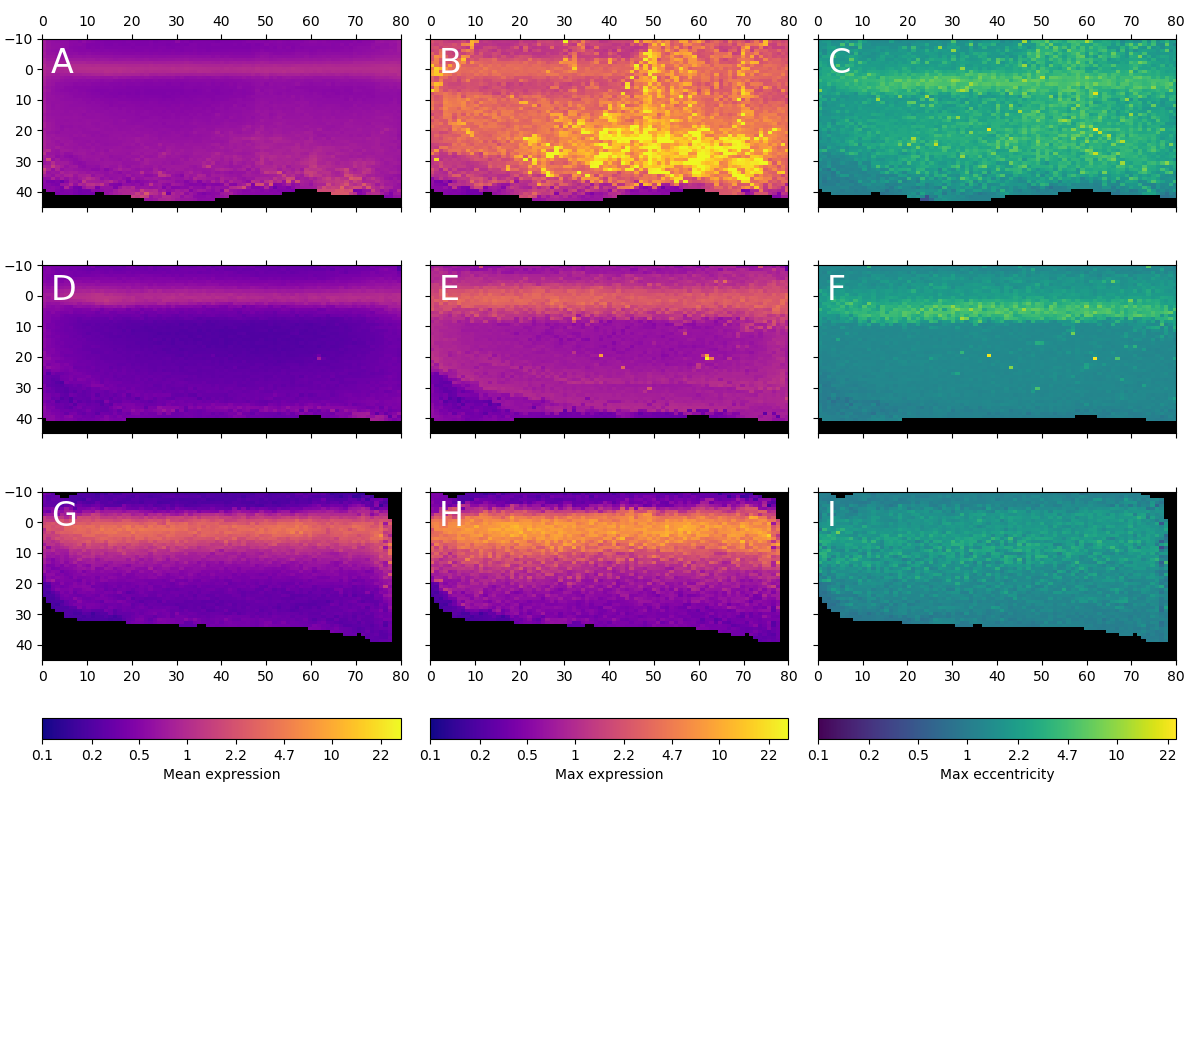
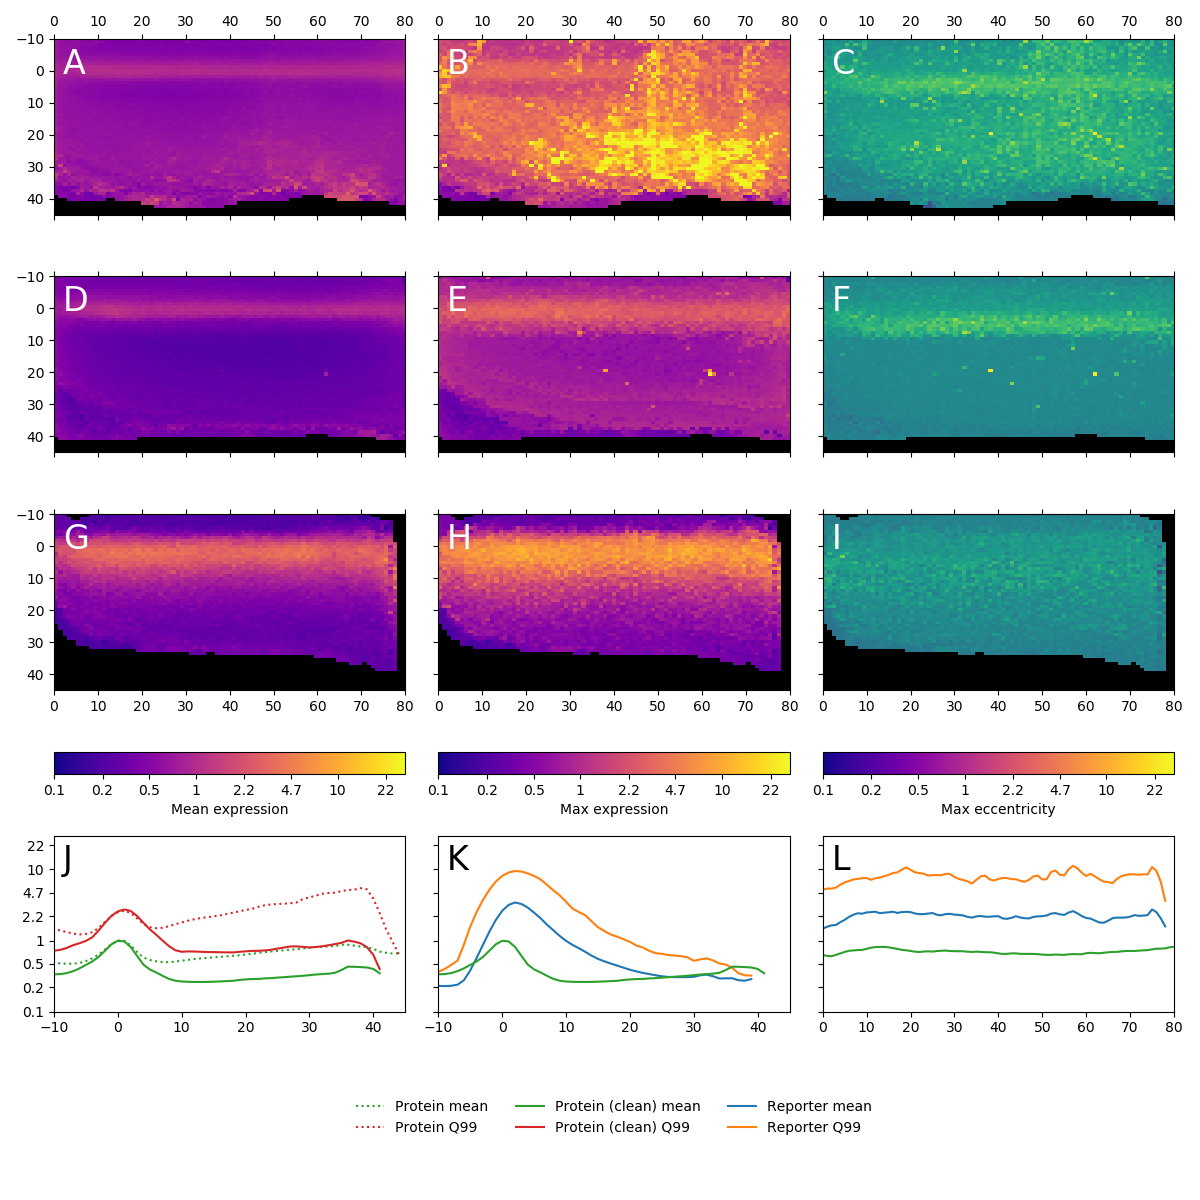
Finished figure 2, updated figure 3

diff --git a/figures/figure_2.md b/figures/figure_2.md
@@ -1,7 +1,7 @@
 # Figure 2
 ### Expression pattern of Atonal
 
-**(A)** mean intensity projection of Ato protein levels onto 80x55 grid, color scale is logarithmic, blue is low, yellow is high, spatial coordinates are expressed in units of mean nucleus diamater for each sample, x-axis (D-V) originates at the disc edge, y-axis (A-P) originates at the morphogenetic furrow (maximum of Ato expression). Data combined from all imaged discs. **(B)** maximum intensity projection of Ato protein levels. **(C)** maximum intensity projection of Ato protein "eccentricity", defined as a ratio between level in a particular cell and its immediate neighbors in 3-dimensional space. **(D-F)** mean intensity projection (**D**), maximum intensity projection (**E**) and eccentricity (**F**) of Ato protein from p[ACMAN] BAC-derived samples (*CG31176*, *beat-IIIc*, *king-tubby*, *lola-P*, *nmo*, *sNPF*, *Vn*, *Fas2*, *siz*). **(G-I)** mean intensity projection (**G**), maximum intensity projection (**H**) and eccentricity (**I**) of *ato* transcriptional reporter.
+**(A)** mean intensity projection of Ato protein levels onto 80x55 grid, color scale is logarithmic, blue is low, yellow is high, spatial coordinates are expressed in units of mean nucleus diamater for each sample, x-axis (D-V) originates at the disc edge, y-axis (A-P) originates at the morphogenetic furrow (maximum of Ato expression). Data combined from all imaged discs. **(B)** maximum intensity projection of Ato protein levels. **(C)** maximum intensity projection of Ato protein "eccentricity", defined as a ratio between level in a particular cell and its immediate neighbors in 3-dimensional space. **(D-F)** mean intensity projection (**D**), maximum intensity projection (**E**) and eccentricity (**F**) of Ato protein from p[ACMAN] BAC-derived samples (*CG31176*, *beat-IIIc*, *king-tubby*, *lola-P*, *nmo*, *sNPF*, *Vn*, *Fas2*, *siz*). **(G-I)** mean intensity projection (**G**), maximum intensity projection (**H**) and eccentricity (**I**) of *ato* transcriptional reporter. **(J)** Expression profile of Ato protein along A-P axis: mean (green) and 99<sup>th</sup> percentile (red), dotted profiles were computed from all samples, solid profiles were computed from BAC-derived samples. **(K)** *ato* transcriptional reporter expression profile along A-P axis: mean (blue) and 99<sup>th</sup> percentile, Ato protein profile (green) included as a reference. **(L)** *ato* expression profile along D-V axis.
 
 ---
 ![Figure 2](figure_2.png)

diff --git a/figures/figure_3.md b/figures/figure_3.md
@@ -1,7 +1,7 @@
 # Figure 3
 ### Expression patterns of Ato targets
 
-**(AA-BK)** mean intensity projection of target gene expression levels onto 80x55 grid, color scale is logarithmic, blue is low, yellow is high, spatial coordinates are expressed in units of mean nucleus diamater for each sample, x-axis (D-V) originates at the disc edge, y-axis (A-P) originates at the morphogenetic furrow (maximum of Ato expression). **(AA'-BK')** maximum intensity projection of target gene expression levels. **(AA''-BK'')** maximum intensity projection of target gene "eccentricity", defined as a ratio between expression level in a particular cell and its immediate neighbors in 3-dimensional space. **(AA'''-BK''')**  expression profile of target genes, green - Ato protein expression, blue - mean target gene expression, orange - 99<sup>th</sup> percentile of target gene expression. This figure was generated with [figures.py](https://github.com/rejsmont/rdn-wdp-python/blob/master/analysis/figures.py) script.
+**(AA-BK)** mean intensity projection of target gene expression levels onto 80x55 grid, color scale is logarithmic, blue is low, yellow is high, spatial coordinates are expressed in units of mean nucleus diamater for each sample, x-axis (D-V) originates at the disc edge, y-axis (A-P) originates at the morphogenetic furrow (maximum of Ato expression). **(AA'-BK')** maximum intensity projection of target gene expression levels. **(AA''-BK'')** maximum intensity projection of target gene "eccentricity", defined as a ratio between expression level in a particular cell and its immediate neighbors in 3-dimensional space. **(AA'''-BK''')**  expression profiles of Ato and target genes along A-P axis: Ato protein expression (green), mean target gene expression (blue), 99<sup>th</sup> percentile of target gene expression (orange). This figure was generated with [`figures.py:fig_3`](https://github.com/rejsmont/rdn-wdp-python/blob/master/analysis/figures.py) script.
 
 ---
 ![Figure 3](figure_3.png)
